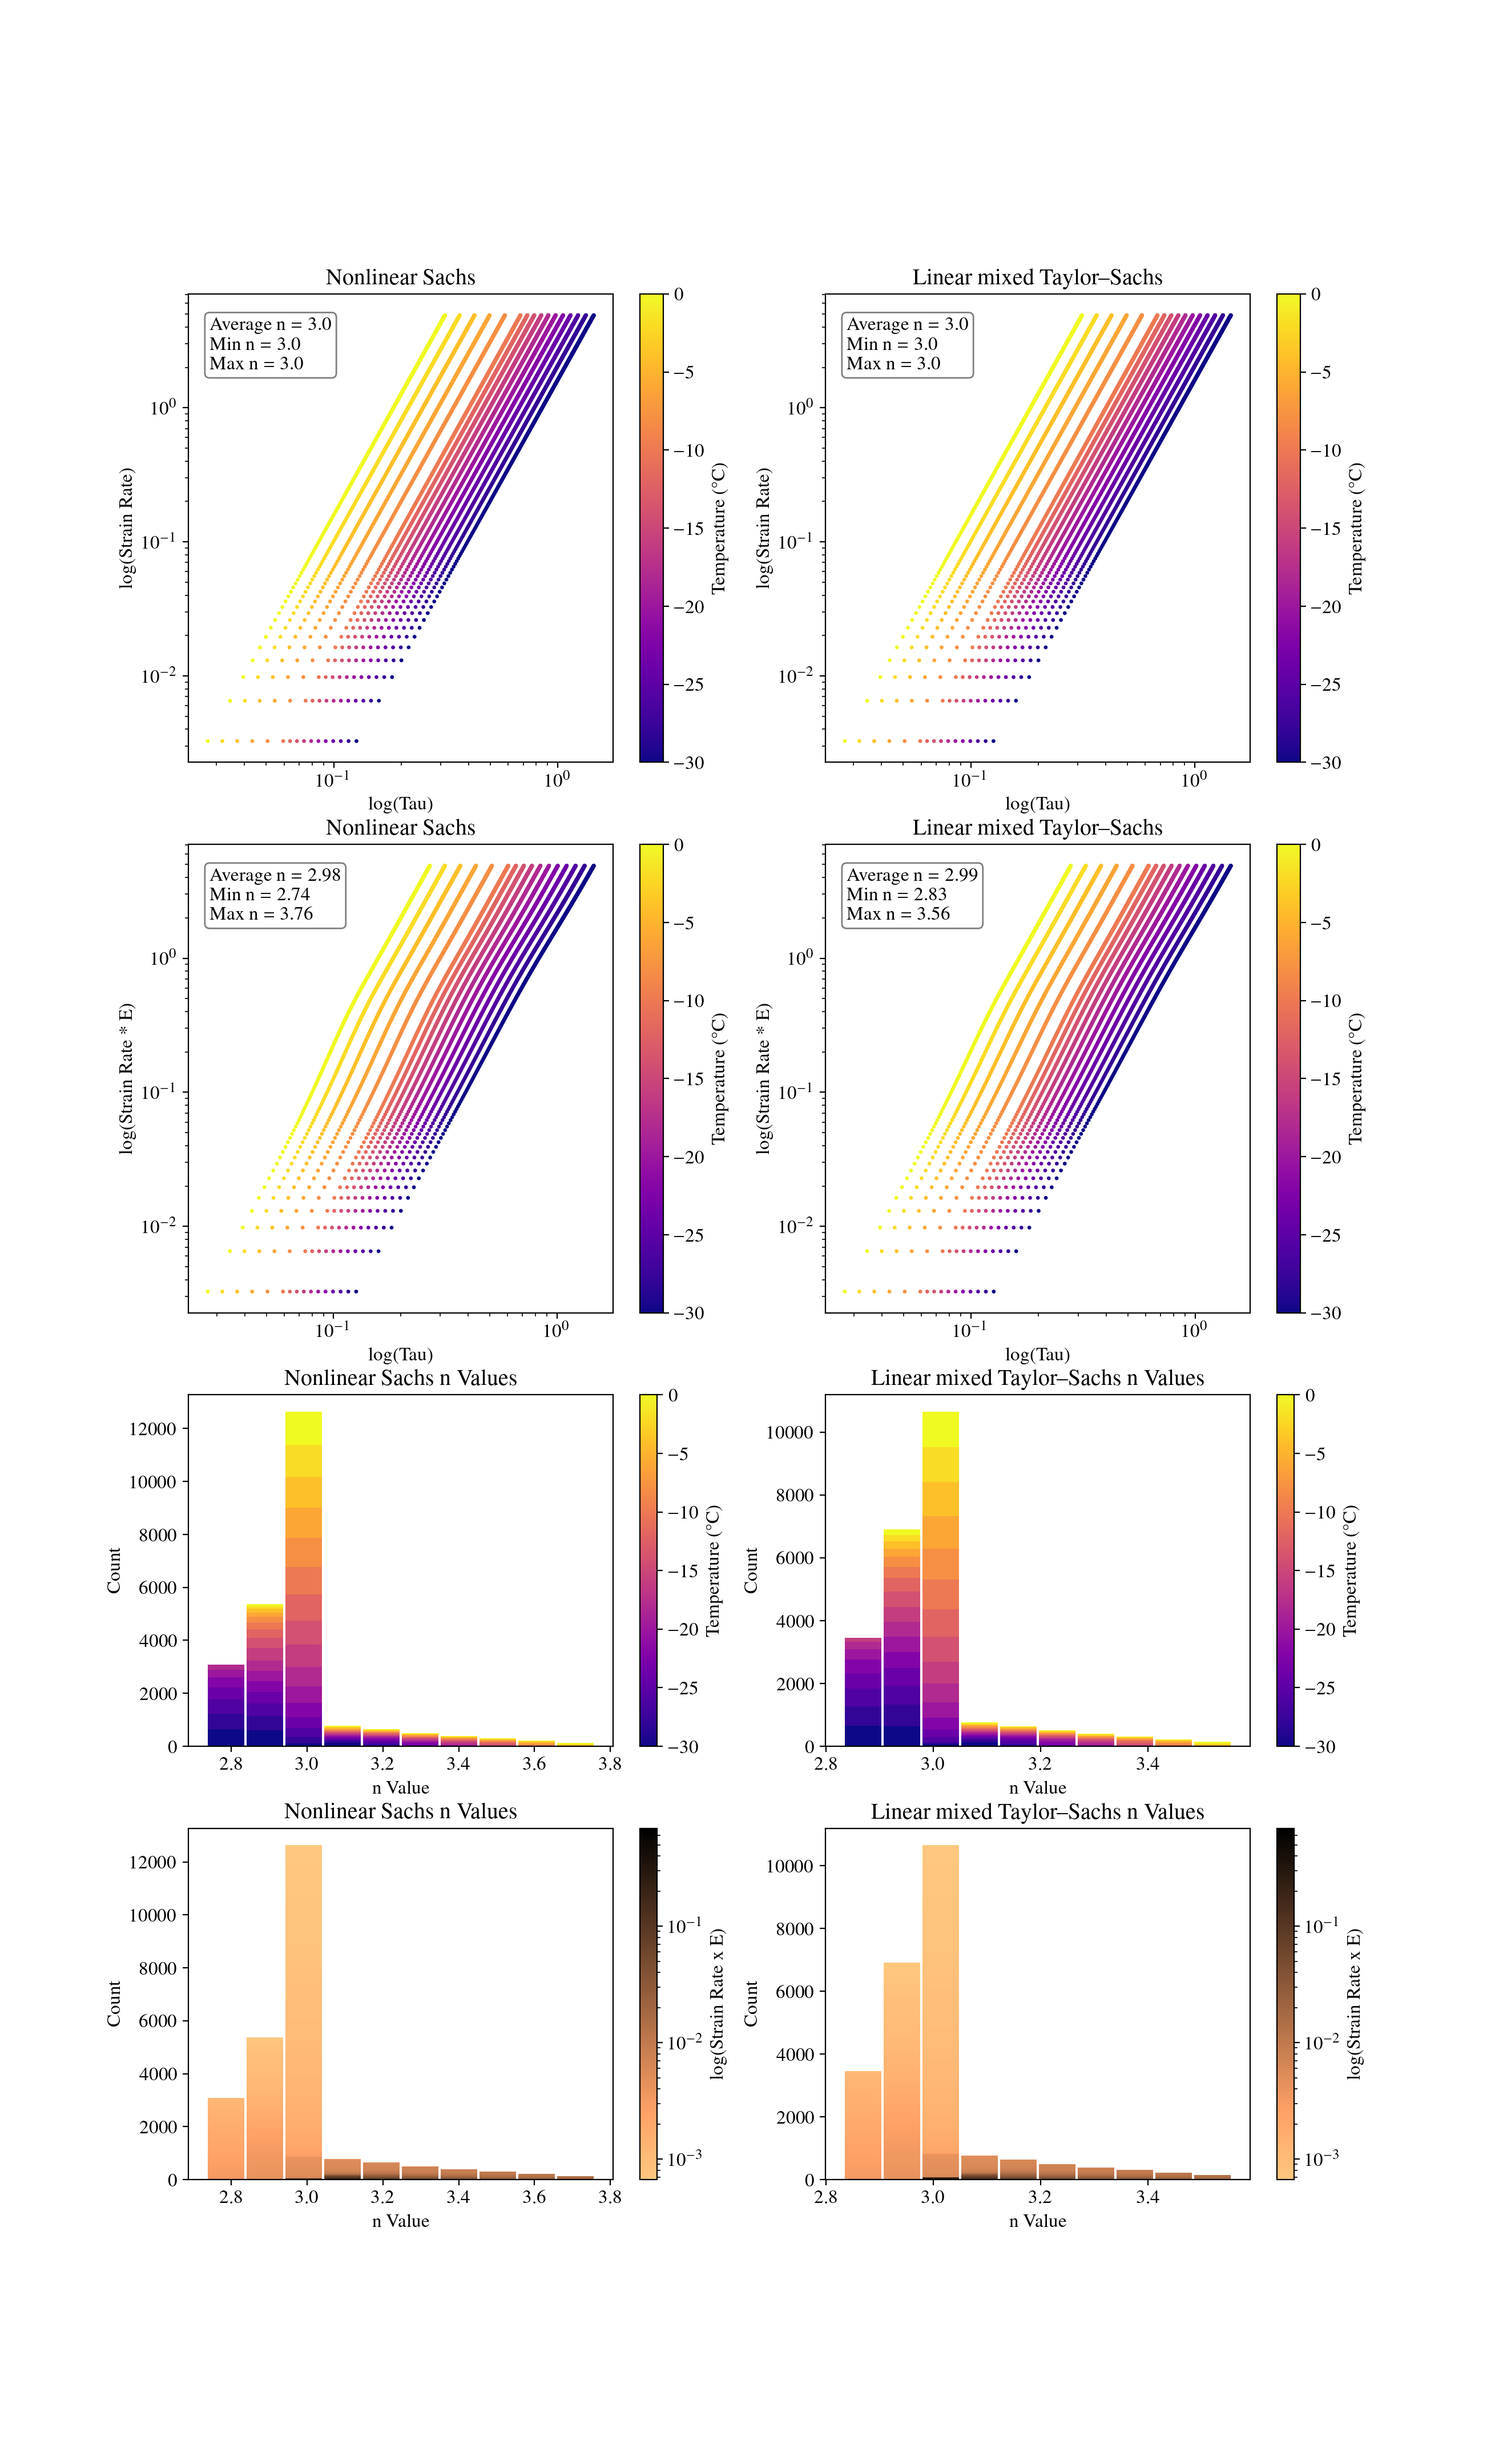
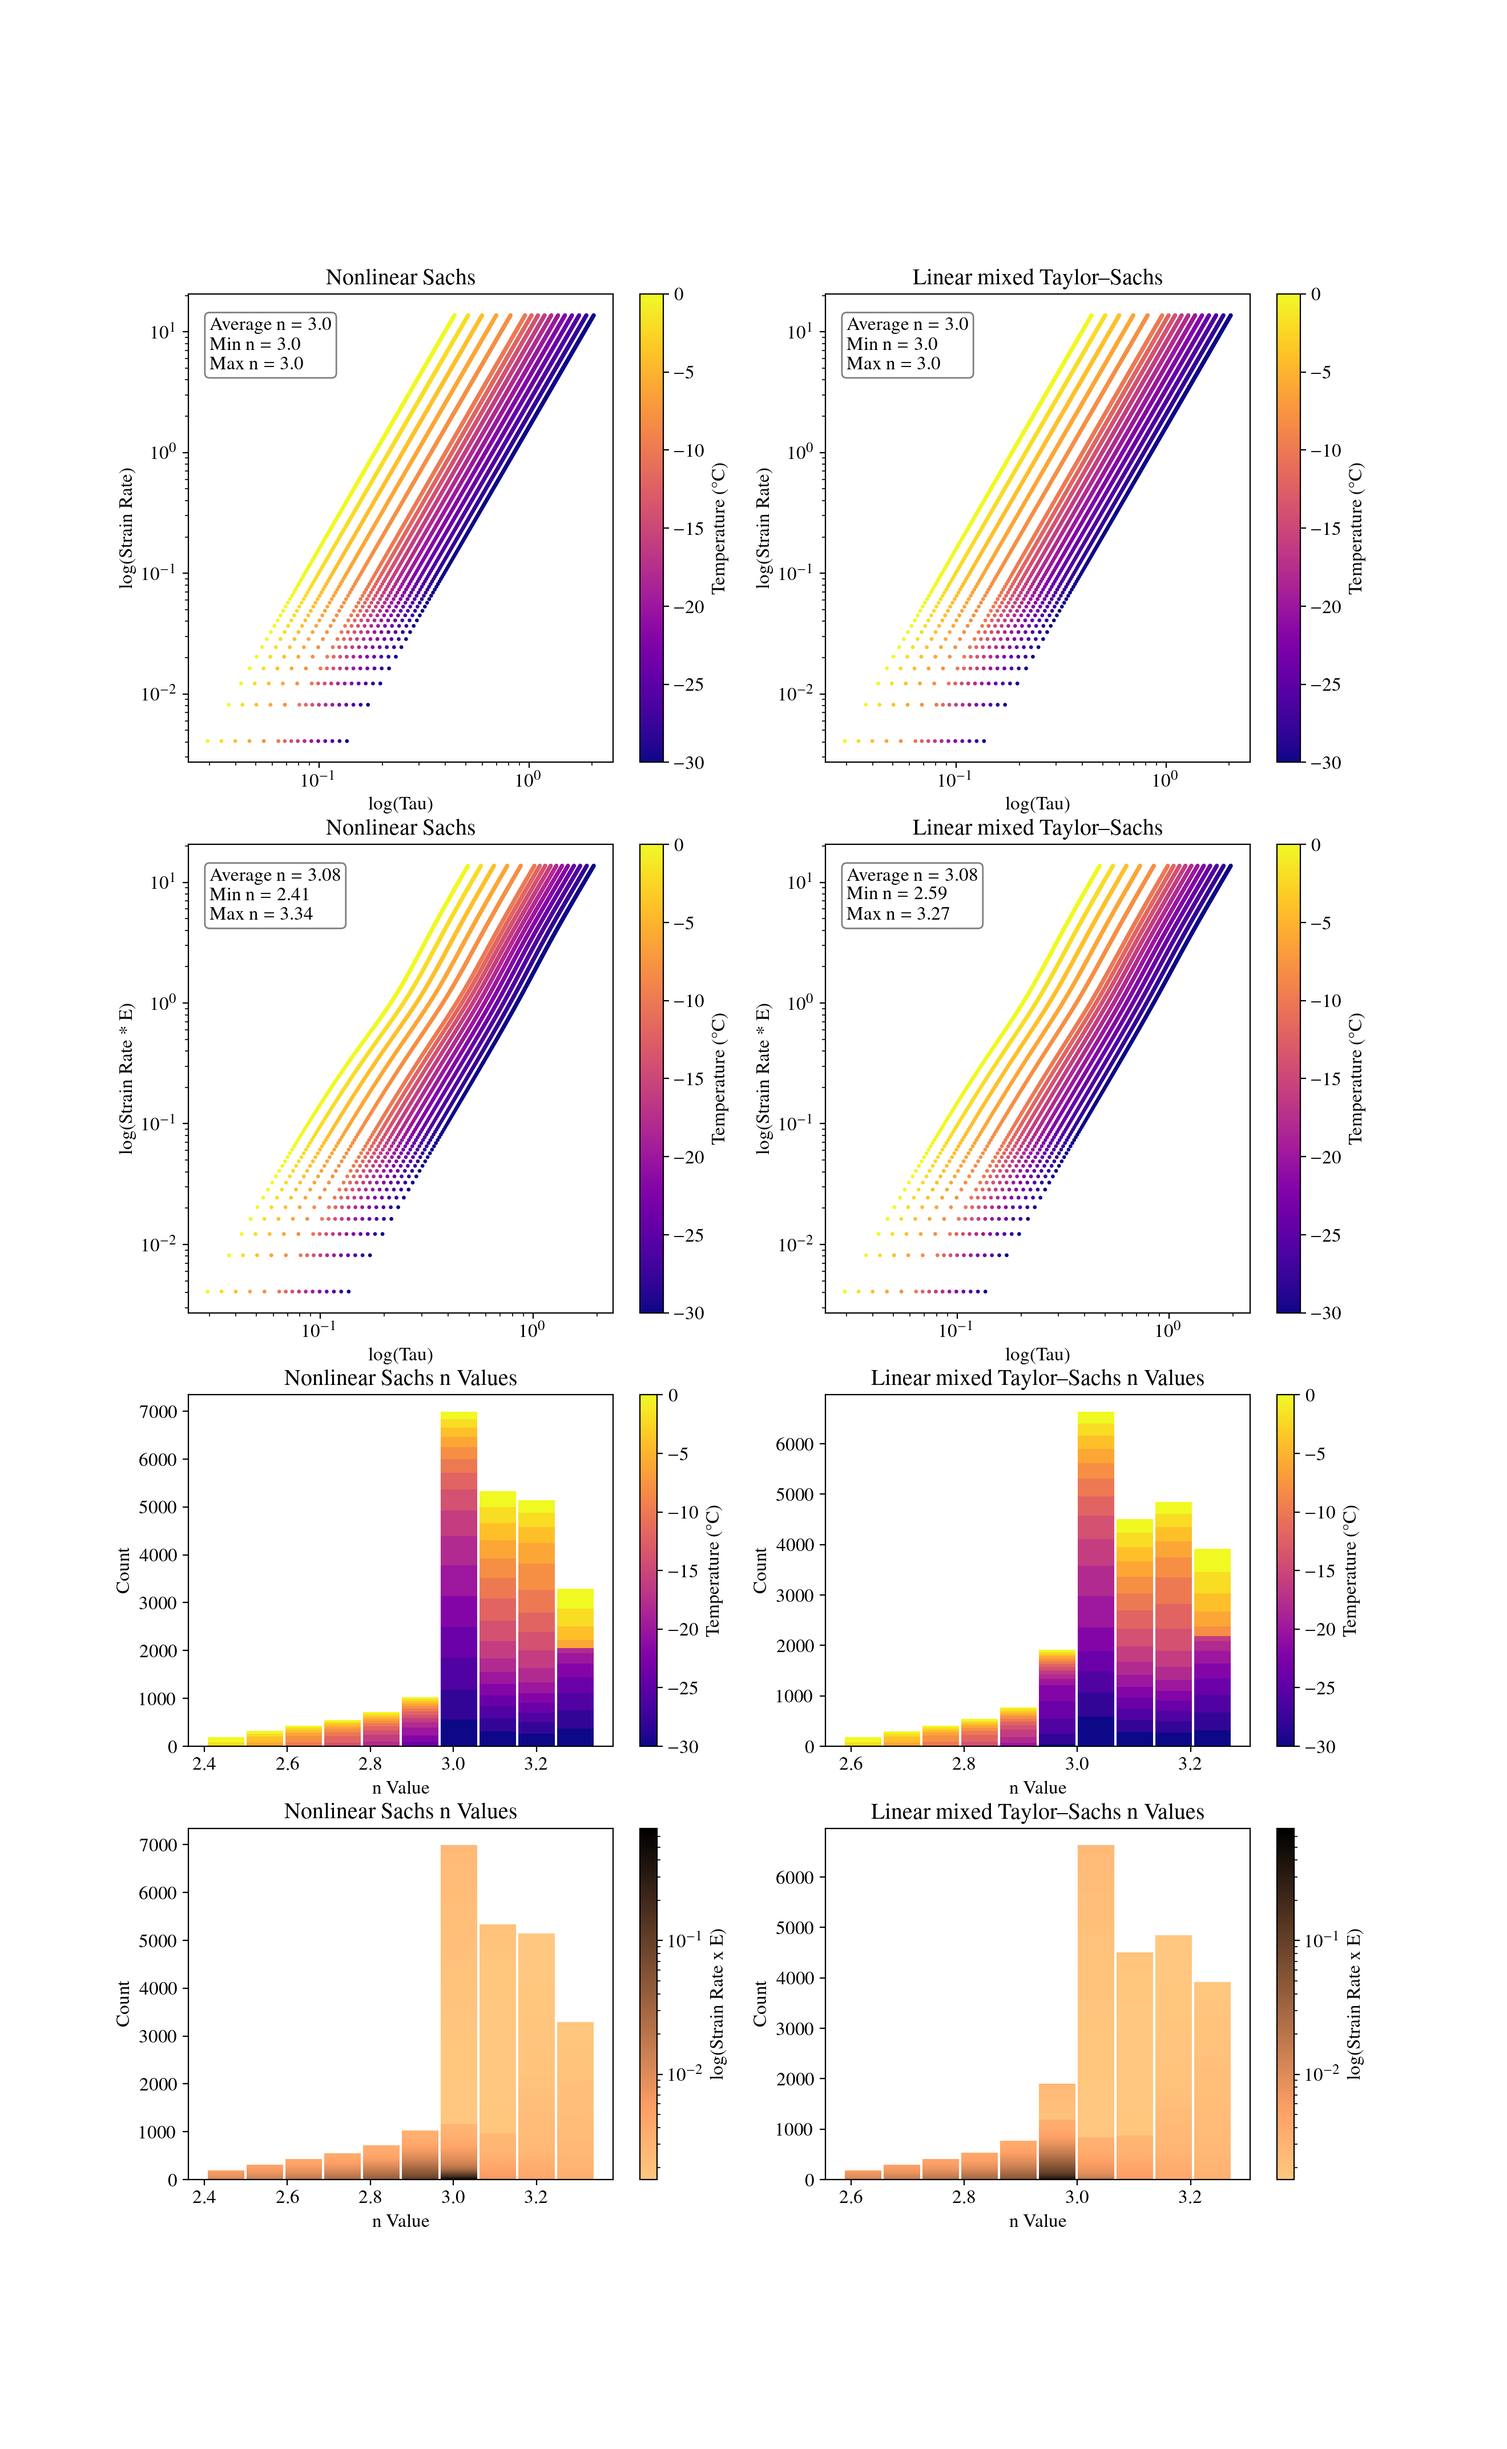
ss fixed

diff --git a/L20/rh-comp.py b/L20/rh-comp.py
@@ -165,10 +165,7 @@ def generate_plot(ax, Eij, ex, t, slopes, use_Eij = True, cutoff = True, balance
     
     data = ax.scatter(x_, y_, label=str(ex.temp) + "°C", c=temps, s = 2, norm=colors.Normalize(MIN_TEMP, MAX_TEMP), cmap = CMAP_TEMP)
 
-    if ex.exptype == "ss":
-        ax.set_xlabel('Target Angle')
-    else:
-        ax.set_xlabel('Target Change')
+    ax.set_xlabel('Target Change')
 
 
     ax.set_xlabel("log(Tau)")
@@ -192,7 +189,7 @@ def generate_plot(ax, Eij, ex, t, slopes, use_Eij = True, cutoff = True, balance
 
 scope = []
 
-for x in CC:
+for x in SS:
     for tem in TEMPS:
         
         if x != "ss" :

diff --git a/L20/lagrange_gen.py b/L20/lagrange_gen.py
@@ -119,6 +119,9 @@ class Experiment():
         temp = np.array([self.temp] * len(steps))
         expt = np.array([self.exptype] * len(steps))
 
+        if self.exptype == "ss":
+            steps = np.tan(np.deg2rad(steps))
+
 
         results = {
             "strain": steps, 
